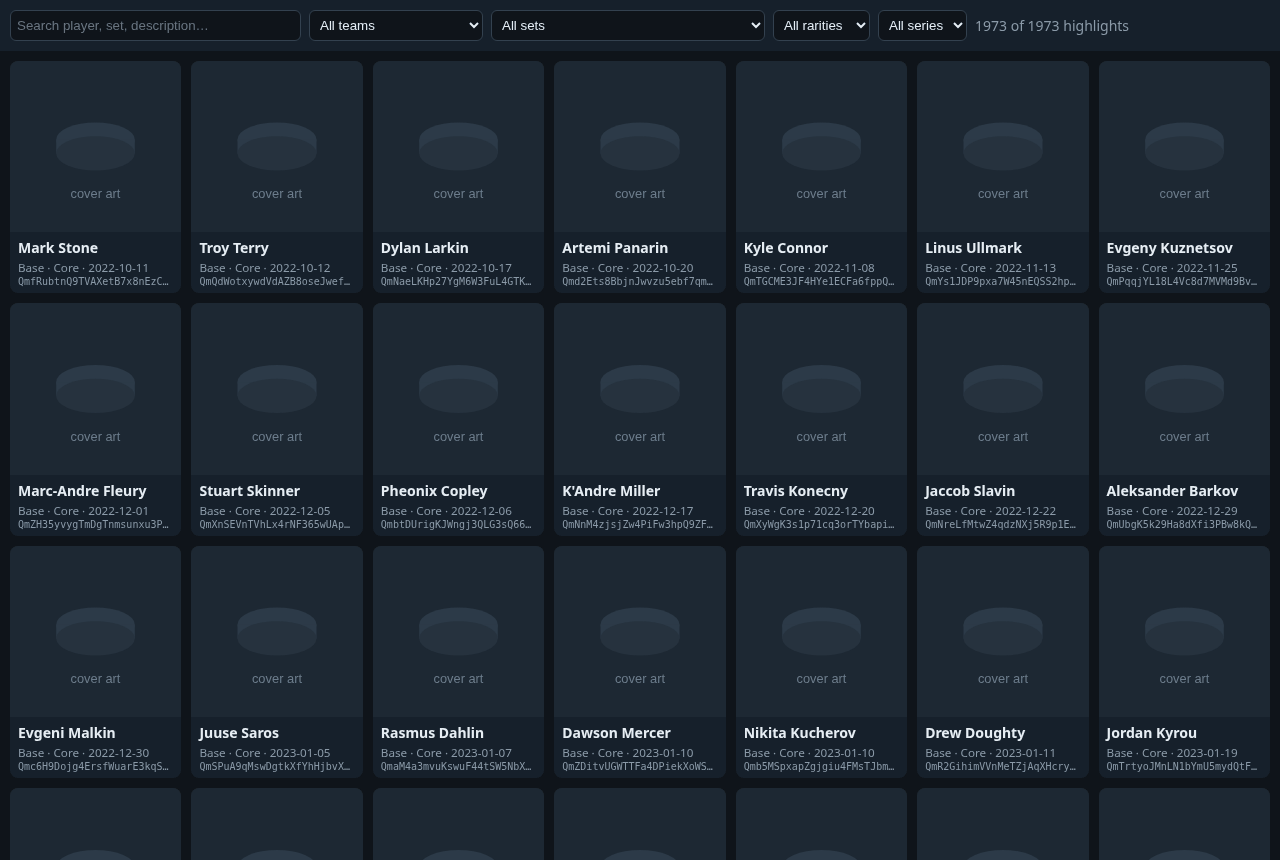
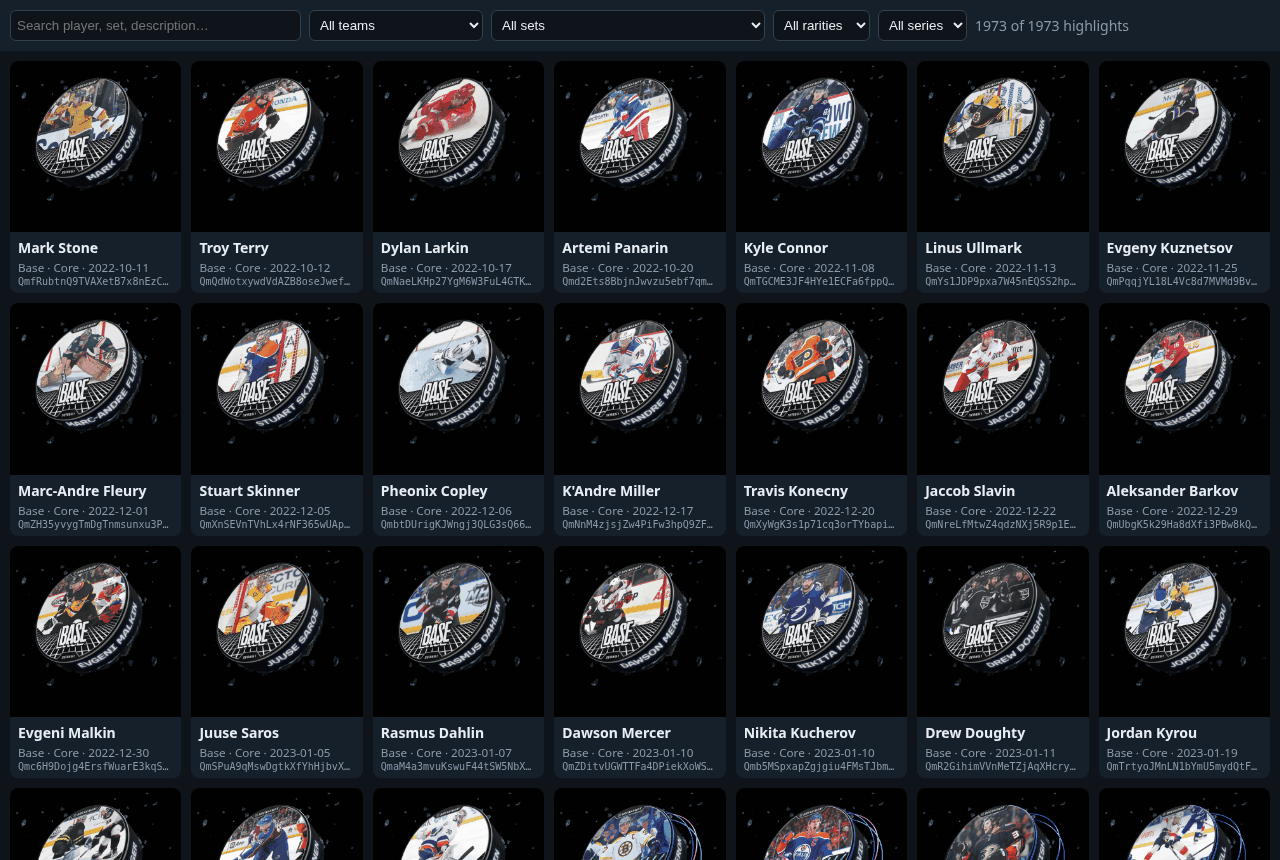
README: show real cover art in viewer screenshot

diff --git a/README.md b/README.md
@@ -17,7 +17,7 @@ In the menu, most people want **4) Open the viewer** (browse every moment right 
 
 ![The numbered menu](docs/images/menu.png)
 
-![The offline viewer: search and filter all 1,973 moments (artwork replaced by placeholders in this picture)](docs/images/viewer.png)
+![The offline viewer: search and filter all 1,973 moments](docs/images/viewer.png)
 
 An unofficial fan archive of NHL Breakaway digital highlights: the details of all 1,973 known moments, saved here so they survive if the site goes away.
 A small tool turns it into a spreadsheet, an offline viewer and a printable album, and downloads the original cover art and videos from IPFS.
@@ -29,7 +29,7 @@ Free to use, fork and share. Provided AS IS with no warranty ([details](#no-warr
 
 It only uses public pages and links: no logins, no wallets, no personal data.
 
-It saves a copy of what NHL Breakaway already shows to everyone, so the details survive. No images or videos are stored here; the tool fetches them for your own personal archive. The technical details are in [Data sources and privacy](#data-sources-and-privacy).
+It saves a copy of what NHL Breakaway already shows to everyone, so the details survive. No highlight images or videos are stored here (only a screenshot of the viewer); the tool fetches them for your own personal archive. The technical details are in [Data sources and privacy](#data-sources-and-privacy).
 
 ## FAQ
 
@@ -168,7 +168,7 @@ This tool and data are provided **AS IS, with no warranty of any kind**, express
 
 ## Disclaimer
 
-Unofficial fan preservation project. Not affiliated with or endorsed by the NHL, NHLPA, NHLAA, Sweet (SocialSweet Inc.) or any team. All trademarks, names, logos, videos and images belong to their respective owners. This repository contains no media; anyone who downloads media with the tool does so only for personal archival use. Takedown requests are honored: please open a [GitHub issue](https://github.com/breakaway-vault/breakaway-data/issues).
+Unofficial fan preservation project. Not affiliated with or endorsed by the NHL, NHLPA, NHLAA, Sweet (SocialSweet Inc.) or any team. All trademarks, names, logos, videos and images belong to their respective owners. This repository contains no highlight media (apart from one screenshot of the viewer); anyone who downloads media with the tool does so only for personal archival use. Takedown requests are honored: please open a [GitHub issue](https://github.com/breakaway-vault/breakaway-data/issues).
 
 Card list originally compiled from The Fifth Line (https://thefifthlinecode.onrender.com).
 
@@ -181,7 +181,7 @@ Card list originally compiled from The Fifth Line (https://thefifthlinecode.onre
 It catalogs **public data**: the NFT metadata and public set and listing data that NHL Breakaway and Sweet already publish for anyone to see.
 * **Public, unauthenticated endpoints only:** `nft.nhlbreakaway.com`, `apigw.sweet.io` (set listings), NHL Breakaway's media CDN and public IPFS gateways. No logins, cookies, paywalls or private APIs, and nothing that gets around rate limits or access controls (it slows down on 429s and stops on 401/403). The only credential the tool ever touches is your *own* pinning-service token, and only if you choose to pin.
 * **No personal data:** no owner or collector names, usernames, wallets, emails or account data are stored. The one wallet address in the raw metadata is Sweet's own royalty-fee address (`fees.recipient_address`), which is part of every token's public metadata. `status` records only *that* a listing or price was seen, never who.
-* **No media in the repo:** no images or videos are hosted here. They stay the property of their rights holders. The tool only helps individuals fetch the public files for their own personal archival use.
+* **No media in the repo:** no highlight images or videos are hosted here, apart from one small screenshot of the viewer in `docs/images/`. They stay the property of their rights holders. The tool only helps individuals fetch the public files for their own personal archival use.
 
 ### What's in the repo
 
@@ -256,4 +256,4 @@ See [CONTRIBUTING.md](CONTRIBUTING.md): fork, add the link to `data/extra_moment
 
 ### License
 
-Code: MIT ([LICENSE](LICENSE)). The metadata in `data/` is a preservation copy of public NHL Breakaway / Sweet metadata. It and all highlight media, names and marks remain the property of their rights holders (NHL, NHLPA, NHLAA, SocialSweet Inc.). No media is stored in this repo.
+Code: MIT ([LICENSE](LICENSE)). The metadata in `data/` is a preservation copy of public NHL Breakaway / Sweet metadata. It and all highlight media, names and marks remain the property of their rights holders (NHL, NHLPA, NHLAA, SocialSweet Inc.). No highlight media is stored in this repo, apart from one screenshot of the viewer.
